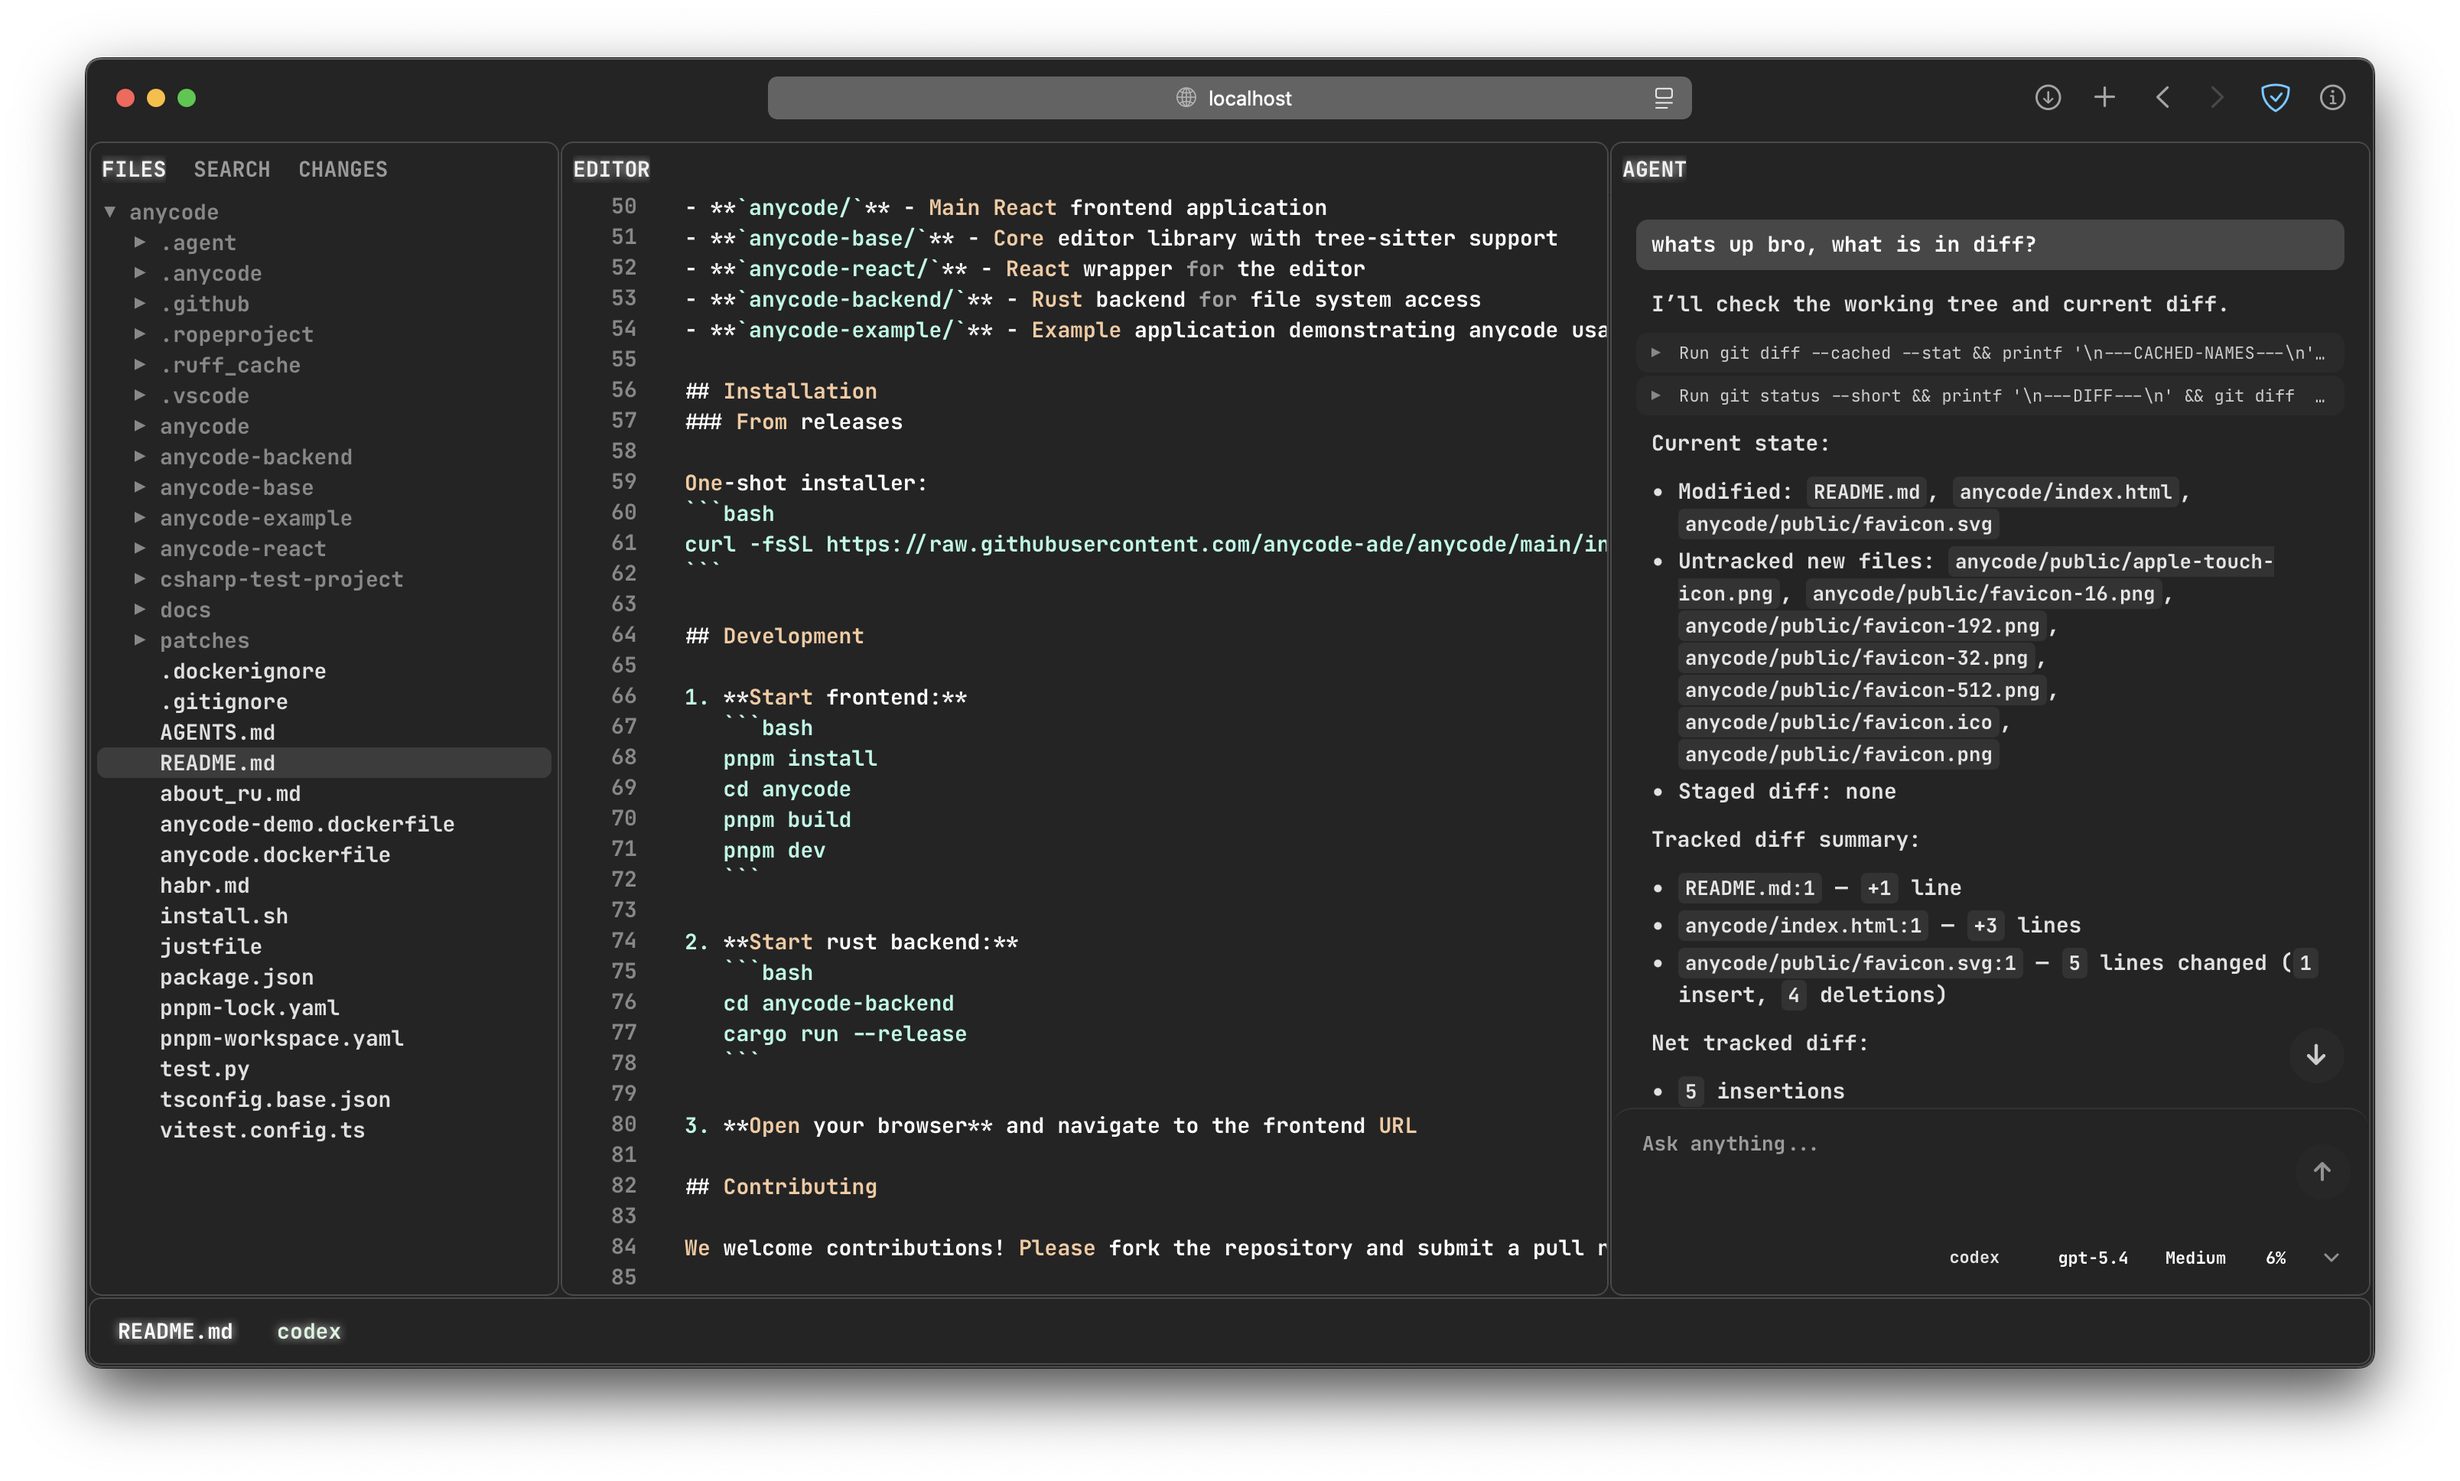
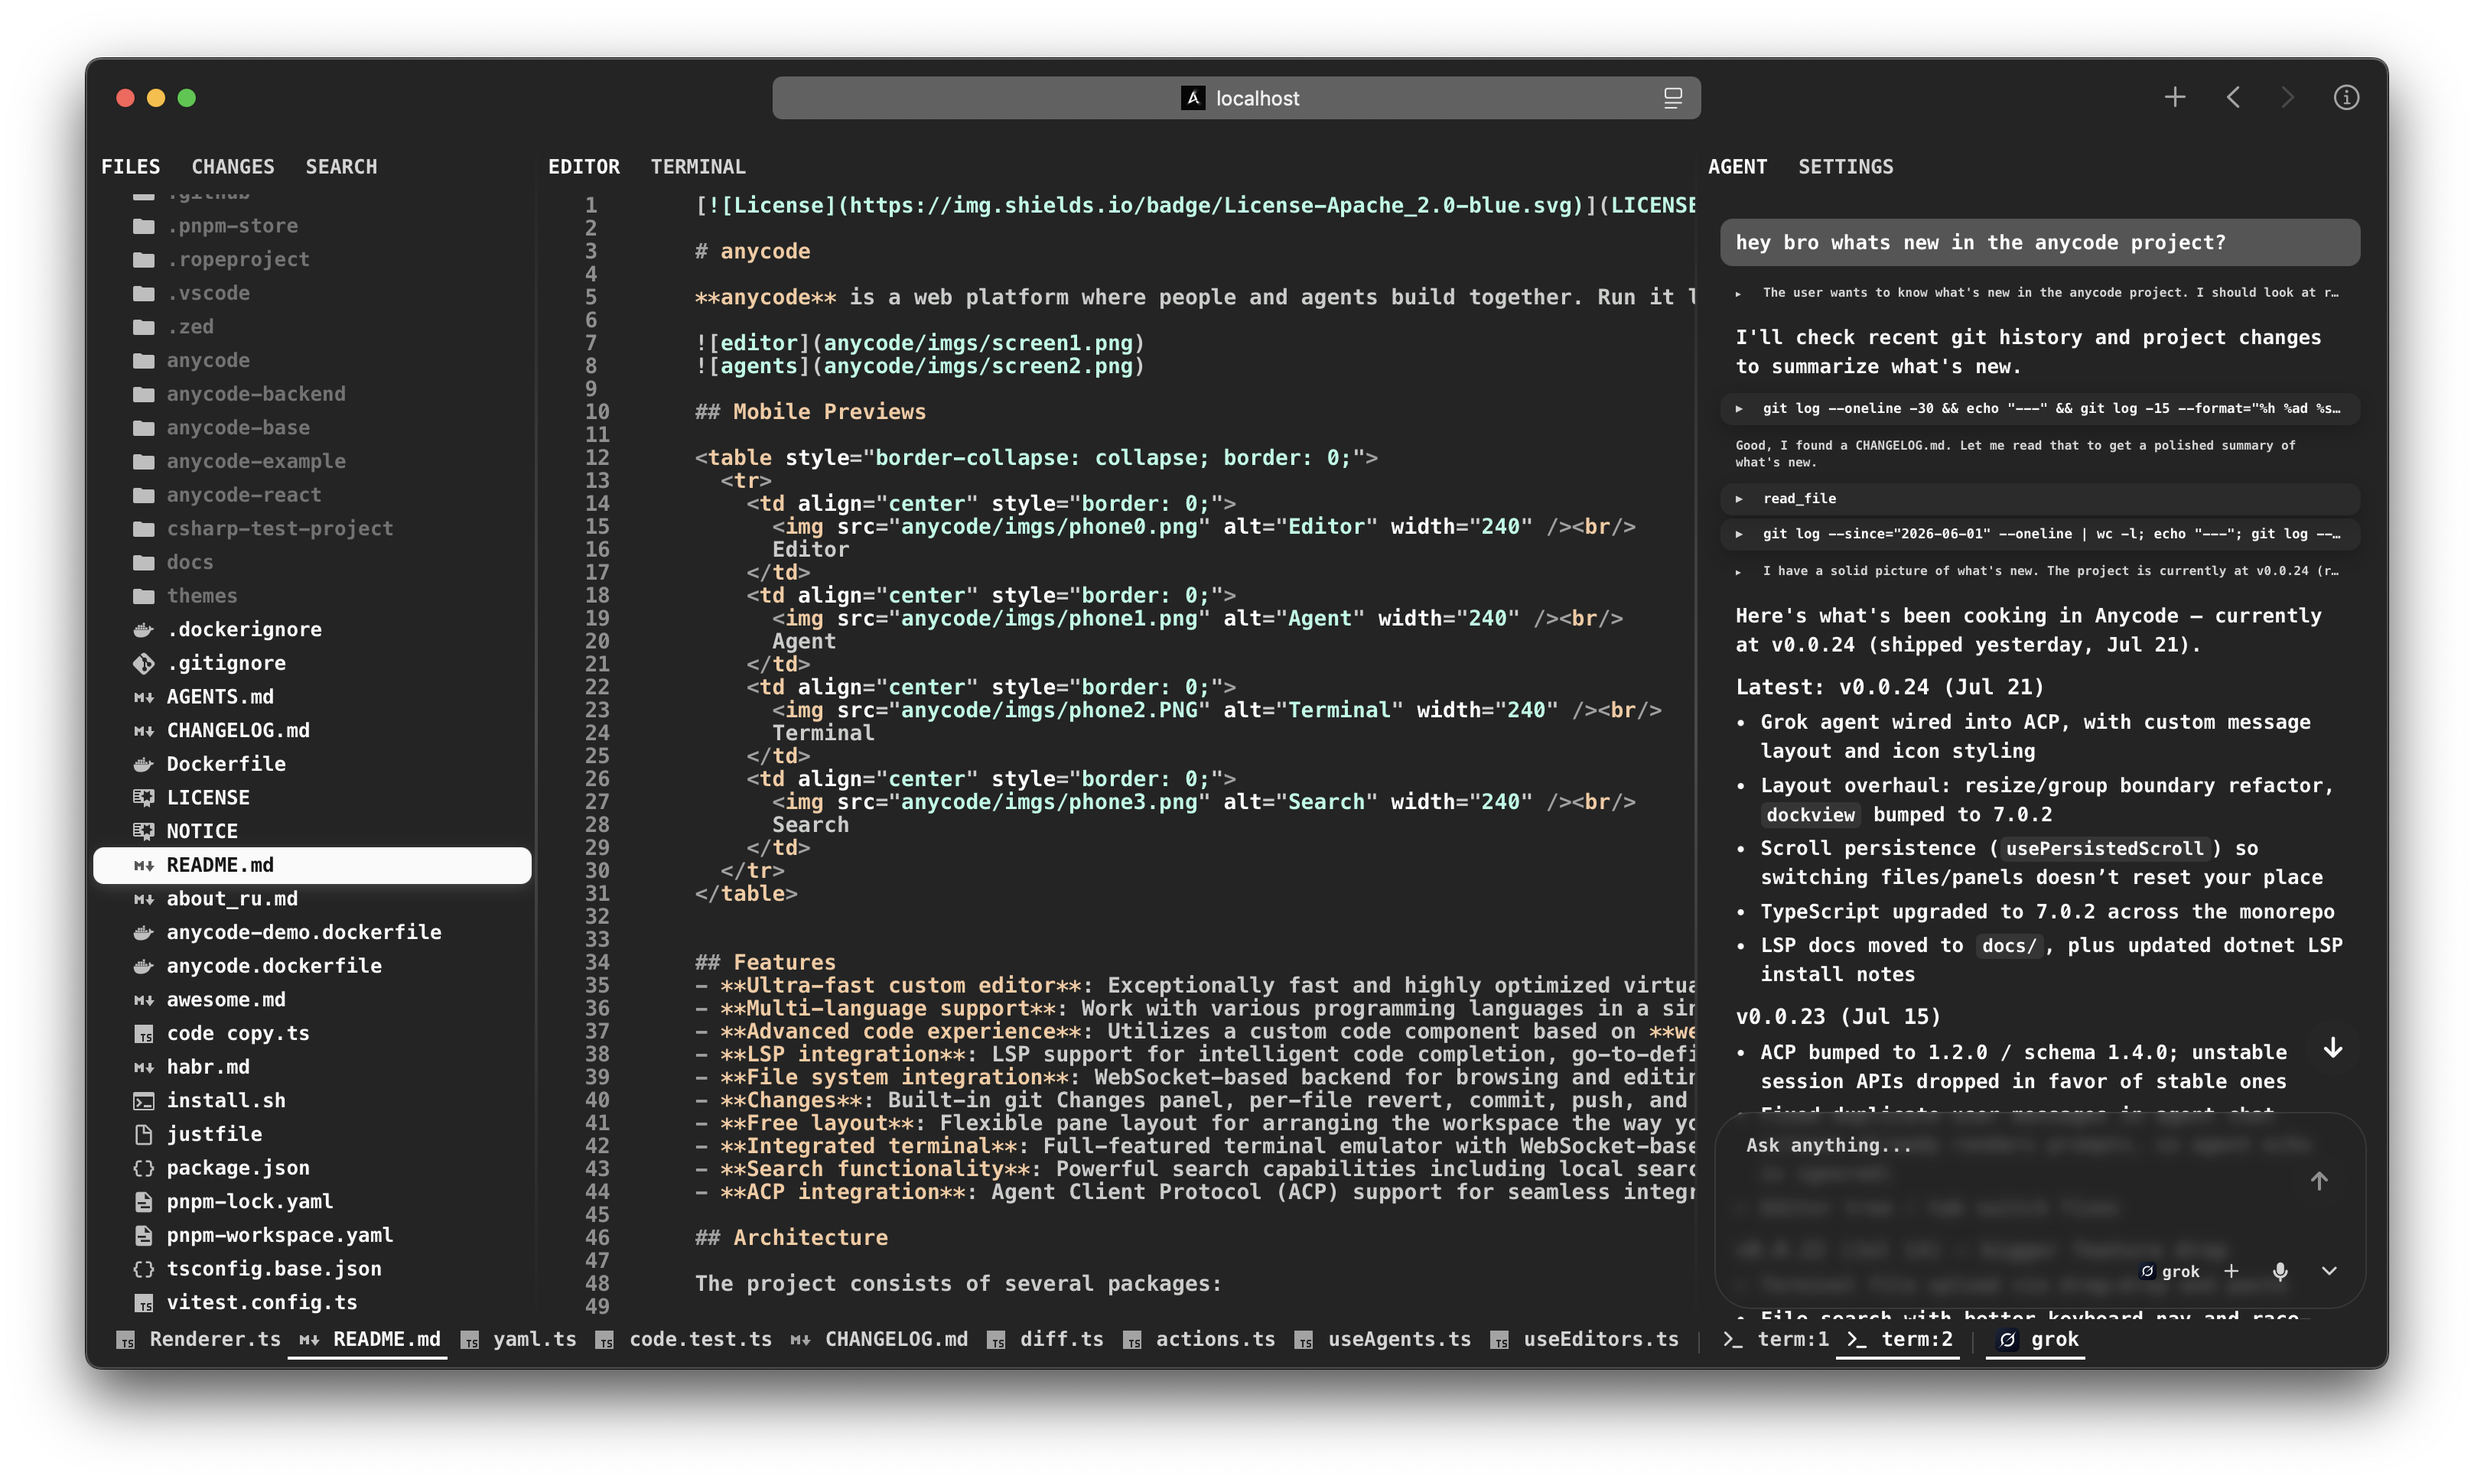
docs: update screenshots and README layout previews

Changed region(s): [[0.0311, 0.093, 0.9639, 0.9298], [0.7152, 0.8368, 0.9328, 0.9298], [0.4664, 0.062, 0.4975, 0.093]]

diff --git a/README.md b/README.md
@@ -5,31 +5,8 @@
 **anycode** is a web platform where people and agents build together. Run it locally or remotely and work from any device you want: desktop, laptop, mobile, or even VR. Use any agent, including Codex, Claude Code, OpenCode, as well as local models.
 
 ![editor](anycode/imgs/screen1.png)
-![agents](anycode/imgs/screen2.png)
-
-## Mobile Previews
-
-<table style="border-collapse: collapse; border: 0;">
-  <tr>
-    <td align="center" style="border: 0;">
-      <img src="anycode/imgs/phone0.png" alt="Editor" width="240" /><br/>
-      Editor
-    </td>
-    <td align="center" style="border: 0;">
-      <img src="anycode/imgs/phone1.png" alt="Agent" width="240" /><br/>
-      Agent
-    </td>
-    <td align="center" style="border: 0;">
-      <img src="anycode/imgs/phone2.PNG" alt="Terminal" width="240" /><br/>
-      Terminal
-    </td>
-    <td align="center" style="border: 0;">
-      <img src="anycode/imgs/phone3.png" alt="Search" width="240" /><br/>
-      Search
-    </td>
-  </tr>
-</table>
-
+![layout](anycode/imgs/screen2.png)
+![agents](anycode/imgs/screen3.png)
 
 ## Features
 - **Ultra-fast custom editor**: Exceptionally fast and highly optimized virtual rendering engine based on tree-sitter parser, delivering superior performance for large codebases. 
